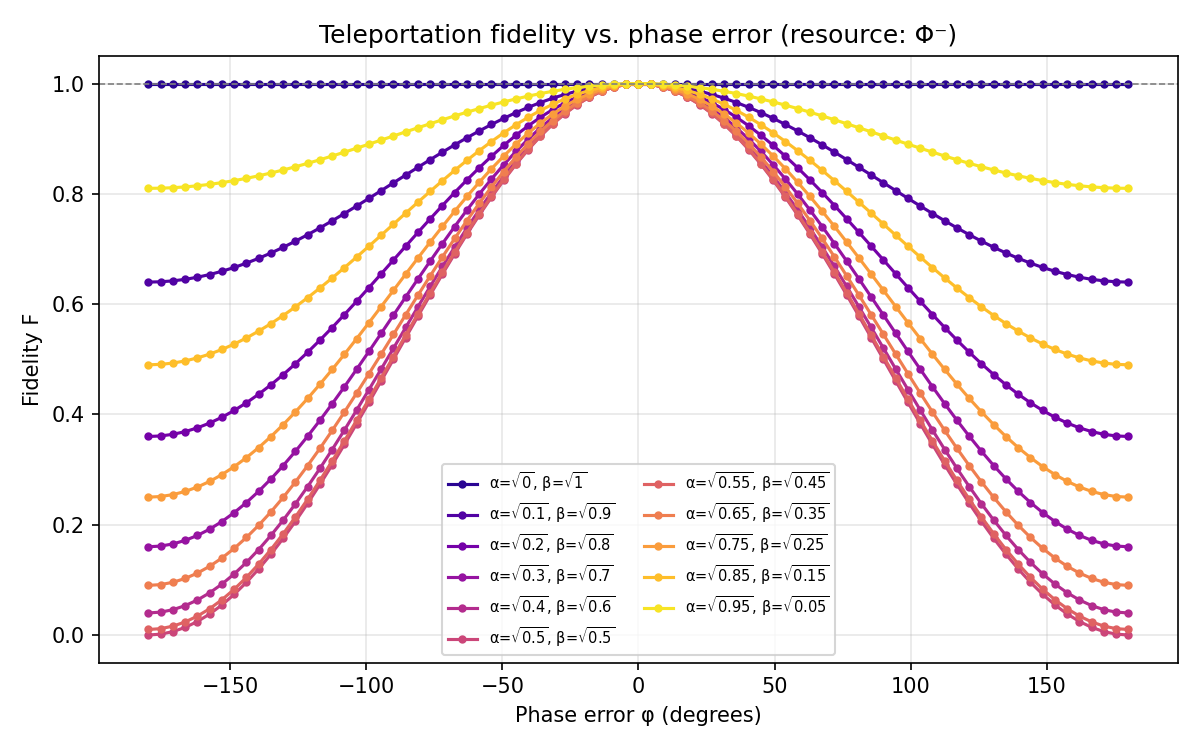
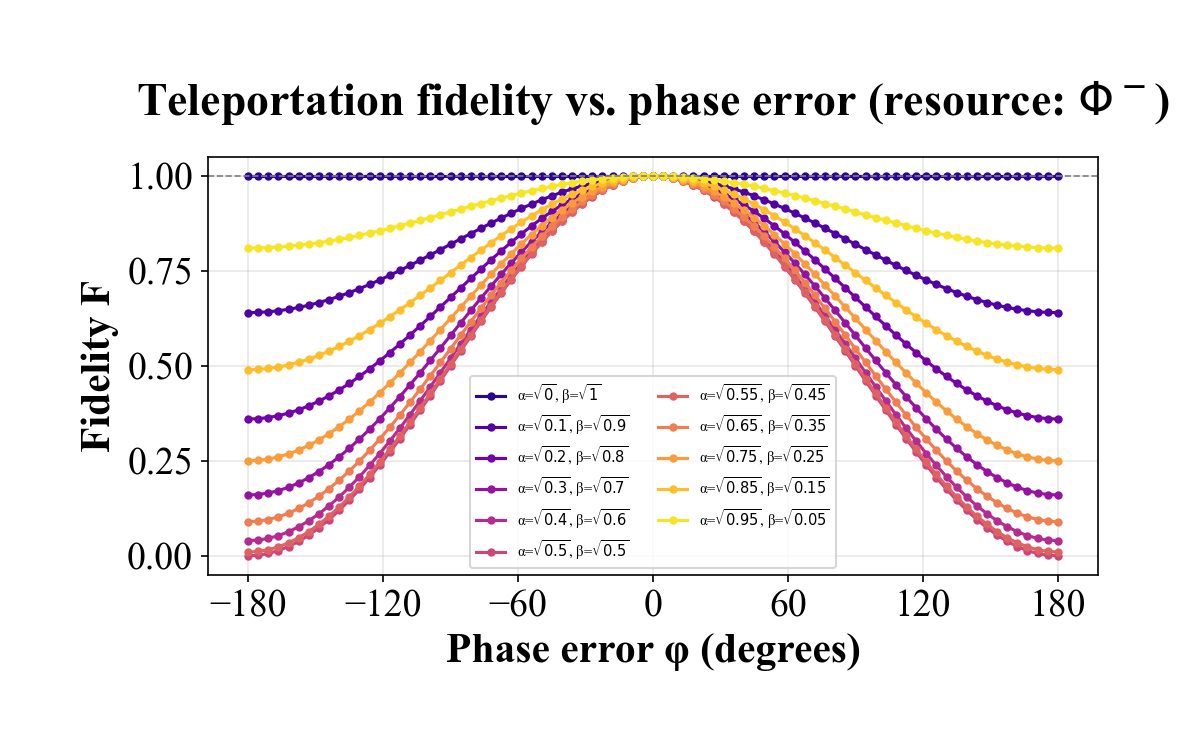
Styled all figures

diff --git a/teleportation_time_jitter_fidelity.py b/teleportation_time_jitter_fidelity.py
@@ -58,7 +58,7 @@ from coincidence_utils import (
 # parameters
 alpha, beta = 1.0 / np.sqrt(2), 1.0 / np.sqrt(2)   # state to teleport
 mm_M = 3
-mm_taus = np.array([0.0, T_REP / 8, T_REP / 4, T_REP / 2, T_REP])
+mm_taus = np.array([T_REP * k / 16 for k in range(-8, 9)])
 
 
 # ----------------------------------------------------------------------
@@ -309,7 +309,10 @@ for i, tau in enumerate(mm_taus):
 print()
 
 # --- plots -----------------------------------------------------------
-fig, axes = plt.subplots(1, 2, figsize=(13, 4.6))
+plt.rcParams['font.family'] = 'serif'
+plt.rcParams['font.serif'] = ['Times New Roman']
+
+fig, axes = plt.subplots(1, 2, figsize=(13, 6.0))
 
 # (a) F vs τ for several M at fixed |ψ⟩ = (|H⟩+|V⟩)/√2 (worst case)
 ax = axes[0]
@@ -327,40 +330,42 @@ ax.axhline(0.5, color="gray", linestyle="--", linewidth=0.7)
 ax.axhline(1.0, color="gray", linestyle=":", linewidth=0.7)
 for k in [-1, 0, 1]:
     ax.axvline(k * T_REP, color="gray", linestyle=":", linewidth=0.7)
-ax.set_xlabel(r"delay  $\tau$")
-ax.set_ylabel(r"fidelity  $F(\tau)$")
-ax.set_title(r"(a) F vs $\tau$ for $|\psi\rangle = (|H\rangle + |V\rangle)/\sqrt{2}$")
+ax.set_xlim(-4.0, 4.0)
+ax.set_xlabel(r"delay  $\tau$", fontsize=24, fontweight='bold')
+ax.set_ylabel(r"fidelity  $F(\tau)$", fontsize=24, fontweight='bold')
+ax.set_title(r"(a) F vs $\tau$ for $|\psi\rangle = (|H\rangle + |V\rangle)/\sqrt{2}$", fontsize=24, fontweight='bold', pad=12)
 ax.set_ylim(0.45, 1.03)
-ax.legend(fontsize=8, loc="lower right")
+ax.tick_params(axis='both', which='major', labelsize=22)
+ax.legend(fontsize=14, loc="upper right")
 ax.grid(alpha=0.3)
 
 # (b) F vs τ for several |ψ⟩ at fixed M
 ax = axes[1]
 M_b = 5
 states_plot = [
-    ("|H⟩",                 (1.0, 0.0),                       "tab:blue"),
-    ("0.6|H⟩+0.8|V⟩",       (0.6, 0.8),                       "tab:green"),
-    ("(|H⟩+|V⟩)/√2",       (1 / np.sqrt(2),  1 / np.sqrt(2)), "tab:red"),
-    ("(|H⟩+i|V⟩)/√2",      (1 / np.sqrt(2), 1j / np.sqrt(2)), "tab:orange"),
+    (r"$|H\rangle$",                 (1.0, 0.0),                       "tab:blue"),
+    (r"$0.6|H\rangle+0.8|V\rangle$",       (0.6, 0.8),                       "tab:green"),
+    (r"$(|H\rangle+|V\rangle)/\sqrt{2}$",       (1 / np.sqrt(2),  1 / np.sqrt(2)), "tab:red"),
+    (r"$(|H\rangle+i|V\rangle)/\sqrt{2}$",      (1 / np.sqrt(2), 1j / np.sqrt(2)), "tab:orange"),
 ]
 for name, (a, b), c in states_plot:
     F = np.array([fidelity_analytic(a, b, t, M_b) for t in tau_grid])
-    coef = 4 * abs(a) ** 2 * abs(b) ** 2
     ax.plot(tau_grid, F, color=c, lw=1.4,
-            label=rf"$|\psi\rangle =$ {name}  ($4|\alpha|^2|\beta|^2 = {coef:.2f}$)")
+            label=f"$|\psi\\rangle = $ {name}")
 ax.axhline(0.5, color="gray", linestyle="--", linewidth=0.7)
 ax.axhline(1.0, color="gray", linestyle=":", linewidth=0.7)
 for k in [-1, 0, 1]:
     ax.axvline(k * T_REP, color="gray", linestyle=":", linewidth=0.7)
-ax.set_xlabel(r"delay  $\tau$")
-ax.set_ylabel(r"$F(\tau)$")
-ax.set_title(rf"(b) F vs $\tau$ for several $|\psi\rangle$  (M = {M_b})")
+ax.set_xlim(-4.0, 4.0)
+ax.set_xlabel(r"delay  $\tau$", fontsize=24, fontweight='bold')
+ax.set_ylabel(r"$F(\tau)$", fontsize=24, fontweight='bold')
+ax.set_title(rf"(b) F vs $\tau$ for several $|\psi\rangle$  (M = {M_b})", fontsize=24, fontweight='bold', pad=12)
 ax.set_ylim(0.45, 1.03)
-ax.legend(fontsize=8, loc="lower right")
+ax.tick_params(axis='both', which='major', labelsize=22)
+ax.legend(fontsize=14, loc="upper right")
 ax.grid(alpha=0.3)
 
-plt.suptitle(r"Post-selected teleportation fidelity vs input-qubit timing jitter")
-plt.tight_layout(rect=[0, 0, 1, 0.95])
-plt.savefig("teleportation_time_jitter_fidelity.png", dpi=150)
-plt.show()
-print("Plot saved to teleportation_time_jitter_fidelity.png")
+plt.suptitle(r"Post-selected teleportation fidelity vs input-qubit timing jitter", fontsize=26, fontweight='bold')
+plt.tight_layout(rect=[0, 0, 1, 0.92], pad=1.0)
+plt.savefig("results/teleportation_time_jitter_fidelity.png", dpi=150)
+print("Plot saved to results/teleportation_time_jitter_fidelity.png")

diff --git a/teleportation_time_jitter.py b/teleportation_time_jitter.py
@@ -202,7 +202,7 @@ print()
 # parameters
 alpha, beta = 1.0 / np.sqrt(2), 1.0 / np.sqrt(2)   # any (α, β) — formula is α,β-independent
 mm_M = 3
-mm_taus = np.array([T_REP * k / 8 for k in range(-8, 9)])
+mm_taus = np.array([T_REP * k / 16 for k in range(-8, 9)])
 
 # --- mrmustard cross-check ---------------------------------------------
 categories = list(detection_probs_analytic(0, mm_M).keys())
@@ -221,7 +221,10 @@ print("(each cell:  analytic / mrmustard)")
 print()
 
 # --- plots -----------------------------------------------------------
-fig, axes = plt.subplots(1, 2, figsize=(13, 4.5))
+plt.rcParams['font.family'] = 'serif'
+plt.rcParams['font.serif'] = ['Times New Roman']
+
+fig, axes = plt.subplots(1, 2, figsize=(13, 6.0))
 
 # (a) all 4 detection probs vs τ for M = mm_M, with mrmustard markers
 ax = axes[0]
@@ -238,11 +241,14 @@ for i, (mk, c) in enumerate(zip(markers_cat, colors_cat)):
 ax.axhline(0.25, color="gray", linestyle="--", linewidth=0.7)
 for k in [-1, 0, 1]:
     ax.axvline(k * T_REP, color="gray", linestyle=":", linewidth=0.7)
-ax.set_xlabel(r"delay  $\tau$")
-ax.set_ylabel("probability")
-ax.set_title(f"(a) detection events vs delay  (M = {mm_M};  markers = mrmustard)")
+ax.set_xlim(-4.0, 4.0)
+ax.set_xlabel(r"delay  $\tau$", fontsize=24, fontweight='bold')
+ax.set_ylabel("probability", fontsize=24, fontweight='bold')
+ax.set_title(f"(a) detection events vs delay\n(M = {mm_M};  markers = mrmustard)", fontsize=20, fontweight='bold', pad=12)
 ax.set_ylim(-0.02, 0.55)
-ax.legend(fontsize=8, loc="center right")
+ax.set_yticks(np.arange(0.0, 0.6, 0.1))
+ax.tick_params(axis='both', which='major', labelsize=22)
+ax.legend(fontsize=14, loc="upper right")
 ax.grid(alpha=0.3)
 
 # (b) P(both arms, same pol) vs τ for several M — the τ-dependent signal
@@ -256,19 +262,21 @@ ax.plot(mm_taus, mm_probs[:, 0], "o", color=M_to_color[mm_M],
         markeredgecolor="black", markeredgewidth=0.8, markersize=7,
         linestyle="none", label=f"mm  M = {mm_M}")
 ax.axhline(0.25, color="gray", linestyle="--", linewidth=0.7,
-           label=r"asymptote $1/4$")
+           label=r"asymptote 1/4")
 for k in [-1, 0, 1]:
     ax.axvline(k * T_REP, color="gray", linestyle=":", linewidth=0.7)
-ax.set_xlabel(r"delay  $\tau$")
-ax.set_ylabel(r"$P(\mathrm{both\ arms,\ same\ pol})$")
-ax.set_title("(b) τ-dependent same-pol coincidence")
+ax.set_xlim(-4.0, 4.0)
+ax.set_xlabel(r"delay  $\tau$", fontsize=24, fontweight='bold')
+ax.set_ylabel(r"$P(\mathrm{both\ arms,\ same\ pol})$", fontsize=18, fontweight='bold')
+ax.set_title("(b) τ-dependent same-pol coincidence", fontsize=24, fontweight='bold', pad=12)
 ax.set_ylim(-0.01, 0.30)
-ax.legend(fontsize=8, loc="lower right")
+ax.set_yticks(np.arange(0.0, 0.35, 0.1))
+ax.tick_params(axis='both', which='major', labelsize=22)
+ax.legend(fontsize=14, loc="lower right")
 ax.grid(alpha=0.3)
 
 plt.suptitle(rf"Bell-measurement with input-qubit timing jitter  "
-             rf"($\omega_0/\Delta\omega = {OMEGA_0/DELTA_OMEGA:.0f}$)")
-plt.tight_layout(rect=[0, 0, 1, 0.95])
-plt.savefig("teleportation_time_jitter.png", dpi=150)
-plt.show()
-print("Plot saved to teleportation_time_jitter.png")
+             rf"($\omega_0/\Delta\omega = {OMEGA_0/DELTA_OMEGA:.0f}$)", fontsize=26, fontweight='bold')
+plt.tight_layout(rect=[0, 0, 1, 0.92], pad=1.0)
+plt.savefig("results/teleportation_time_jitter.png", dpi=150)
+print("Plot saved to results/teleportation_time_jitter.png")

diff --git a/teleportation.py b/teleportation.py
@@ -55,6 +55,9 @@ phi_deg = np.degrees(phi_errors)
 alpha_sq_values = [0.0, 0.1, 0.2, 0.3, 0.4, 0.5, 0.55, 0.65, 0.75, 0.85, 0.95]
 colors = plt.cm.plasma(np.linspace(0.05, 0.95, len(alpha_sq_values)))
 
+plt.rcParams['font.family'] = 'serif'
+plt.rcParams['font.serif'] = ['Times New Roman']
+
 fig, ax = plt.subplots(figsize=(8, 5))
 
 for color, alpha_sq in zip(colors, alpha_sq_values):
@@ -89,14 +92,15 @@ for color, alpha_sq in zip(colors, alpha_sq_values):
     label = rf"α=$\sqrt{{{alpha_sq:.4g}}}$, β=$\sqrt{{{beta_sq:.4g}}}$"
     ax.plot(phi_deg, mean_fidelity, color=color, linewidth=1.5, marker="o", markersize=3, label=label)
 
-ax.set_xlabel("Phase error φ (degrees)")
-ax.set_ylabel("Fidelity F")
-ax.set_title("Teleportation fidelity vs. phase error (resource: Φ⁻)")
+    ax.set_xlabel("Phase error φ (degrees)", fontsize=20, fontweight='bold')
+ax.set_ylabel("Fidelity F", fontsize=20, fontweight='bold')
+ax.set_title(r"Teleportation fidelity vs. phase error (resource: $\Phi^-$)", fontsize=22, fontweight='bold', pad=20)
 ax.set_ylim(-0.05, 1.05)
+ax.set_xticks(np.arange(-180, 181, 60))
+ax.tick_params(axis='both', which='major', labelsize=18)
 ax.axhline(1.0, color="gray", linestyle="--", linewidth=0.8)
 ax.grid(True, alpha=0.3)
 ax.legend(fontsize=7, ncol=2, loc="lower center")
-plt.tight_layout()
-plt.savefig("fidelity_vs_phase_error.png", dpi=150)
-plt.show()
-print("Plot saved to fidelity_vs_phase_error.png")
+plt.tight_layout(rect=[0.05, 0.05, 0.95, 0.95], pad=2.0)
+plt.savefig("results/fidelity_vs_phase_error.png", dpi=150)
+print("Plot saved to results/fidelity_vs_phase_error.png")

diff --git a/Bell_measurement.py b/Bell_measurement.py
@@ -47,13 +47,7 @@ circuit = lab.Circuit(
 mode_labels = ["A_H", "A_V", "B_H", "B_V"]
 mode_groups = [[0, 1], [2, 3]]  # arm A: modes 0,1 (H,V); arm B: modes 2,3 (H,V)
 
-print("=" * 60)
-print("BELL STATE MEASUREMENT APPARATUS")
-print("=" * 60)
-explain_circuit(circuit, mode_labels)
-print()
-print("Detectors: PNR on each mode")
-print()
+
 
 # --- Input state: |Psi+> = (|HV> + |VH>) / sqrt(2) ---------------
 # In the 4-mode encoding (A_H, A_V, B_H, B_V):
@@ -61,8 +55,16 @@ print()
 #   |V>_A |H>_B = |0,1,1,0>
 ket = np.zeros((2, 2, 2, 2), dtype=complex)
 ket[1, 0, 1, 0] = 1 / np.sqrt(2)
-ket[0, 1, 0, 1] = - 1 / np.sqrt(2)
+ket[0, 1, 0, 1] = 1 / np.sqrt(2)
 psi_plus = lab.State(ket=ket)
+
+print("=" * 60)
+print("BELL STATE MEASUREMENT APPARATUS")
+print("=" * 60)
+explain_circuit(circuit, psi_plus, mode_labels)
+print()
+print("Detectors: PNR on each mode")
+print()
 
 # --- Apply the circuit and read joint photon-number probabilities --
 output_state = psi_plus >> circuit
